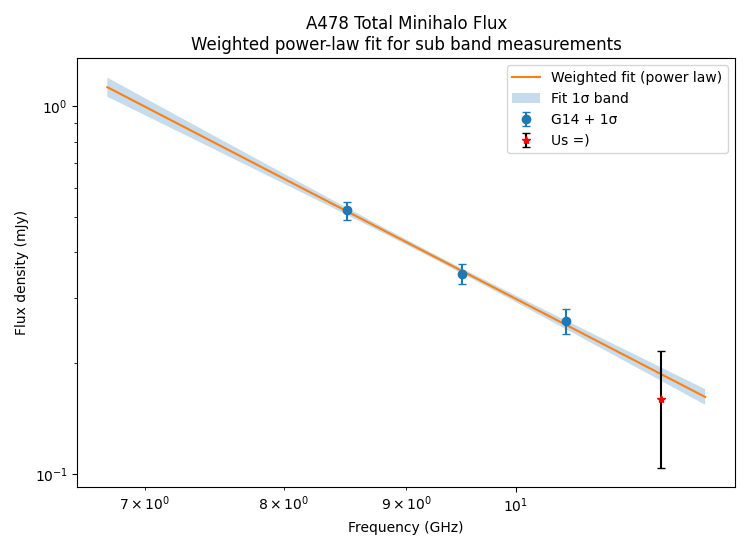
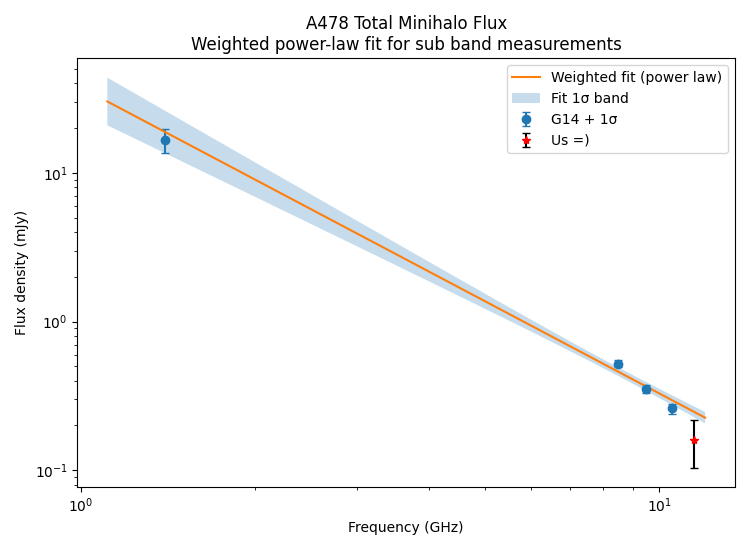
feat: analysis for A478 + MS1455+2232

diff --git a/Image-Processing/A478/minihalo/subband/minihalo_flux.py b/Image-Processing/A478/minihalo/subband/minihalo_flux.py
@@ -58,9 +58,9 @@ def plot_seds(
 
 
 # --- Data ---
-mh_freq = np.array([8.5, 9.5, 10.5, 11.5])
-mh_flux = np.array([0.52, 0.35, 0.26, 0.16])
-mh_err  = np.array([0.029, 0.022, 0.02, 0.056])
+mh_freq = np.array([1.40, 8.5, 9.5, 10.5, 11.5])
+mh_flux = np.array([16.6, 0.52, 0.35, 0.26, 0.16])
+mh_err  = np.array([3, 0.029, 0.022, 0.02, 0.056])
 
 bcg_freq = np.array([1.4, 4.9, 10])
 bcg_flux = np.array([31, 9.6, 5.41])
